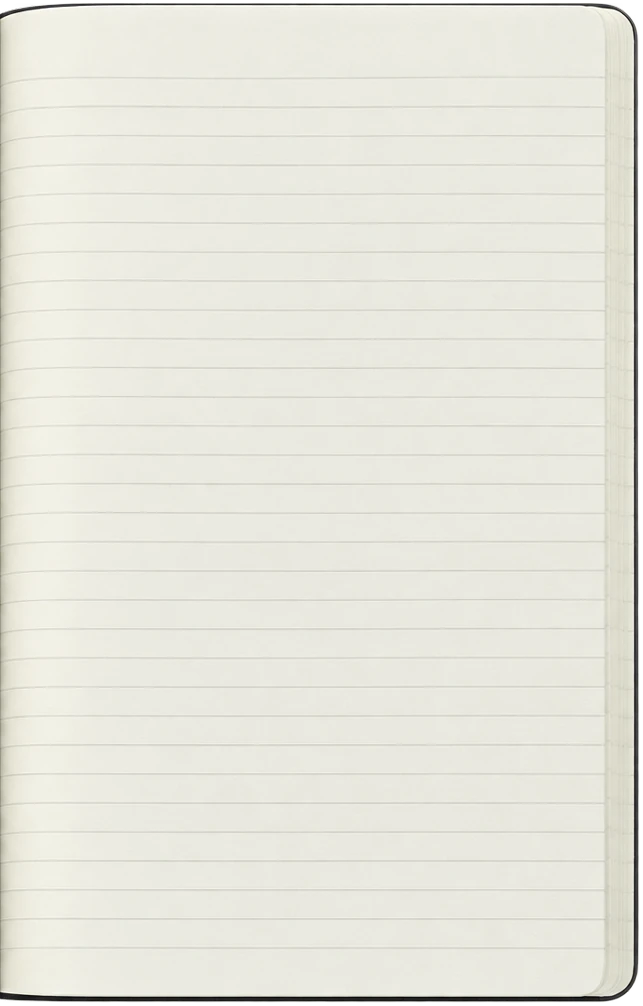
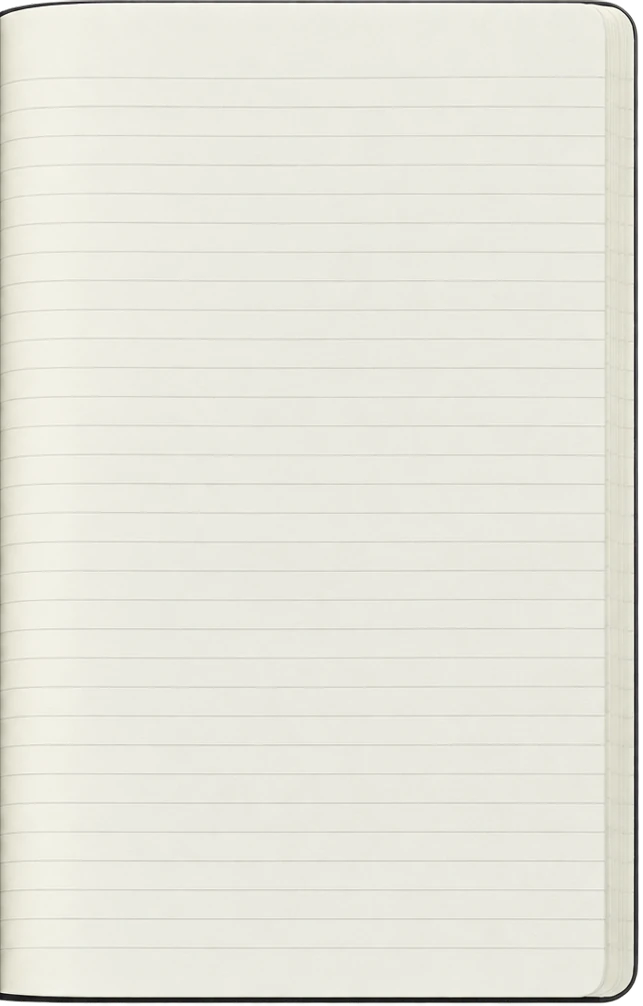
Familienrezepte updates

Changed region(s): [[0.0, 0.0, 0.9953, 0.0308], [0.0, 0.9861, 0.9642, 1.0]]

diff --git a/public/projects/familienrezepte/app/app.js b/public/projects/familienrezepte/app/app.js
@@ -17,6 +17,15 @@ $('imgEndR').src = A.endR; $('imgBack').src = A.back;
 for (const [id, img] of [['coverBackShade', A.endL], ['backInShade', A.endR], ['backOutShade', A.back]]) {   // shading only where the board is
   const m = $(id).style; m.webkitMaskImage = m.maskImage = `url(${img})`; m.webkitMaskSize = m.maskSize = '100% 100%';
 }
+// every notebook picture is fetched and decoded up front and kept, so the first turn or opening never waits for one
+const KEEP_IMG = Object.values(A).map(src => { const i = new Image(); i.src = src; if (i.decode) i.decode().catch(() => {}); return i; });
+const frames = n => new Promise(r => { const f = k => k ? requestAnimationFrame(() => f(k - 1)) : r(); f(n); });
+// before anything moves: the pictures in what is about to be shown are decoded, and the browser has painted it
+async function ready(nodes, cap = 400) {
+  const imgs = nodes.filter(Boolean).flatMap(n => [...n.querySelectorAll('img')]);
+  await Promise.race([Promise.all(imgs.map(i => (i.decode ? i.decode() : Promise.resolve()).catch(() => {}))), new Promise(r => setTimeout(r, cap))]);
+  await frames(2);
+}
 let D = null;                 // the book's content, once unlocked
 const ILLD = {};              // illustrations per recipe, as they arrive
 const reduce = matchMedia('(prefers-reduced-motion: reduce)');
@@ -303,6 +312,7 @@ function place(r, rects) {
   return out;
 }
 function fitOne(r, box, u) {
+  r._v = (r._v || 0) + 1;
   const keep = lang;
   for (const l of ['de', 'en']) {
     lang = l; const key = fkey(r, l); delete fit[key];
@@ -319,7 +329,7 @@ function fitAll() { const box = measureBox(), u = px(); for (const r of D.recipe
 
 // ---------- the order of pages ----------
 let pages = [];
-function buildPages() { pages = [tocPage(), ...D.recipes.map(r => recipePage(r)), insideBack]; }
+function buildPages() { layoutVer++; pages = [tocPage(), ...D.recipes.map(r => recipePage(r)), insideBack]; }
 // Which pages lie open at position n. Wide: a spread, the inside of the cover first. Tall: one right-hand page at a time
 const wide = () => !tall.matches;
 const rightIdx = n => wide() ? 2 * n : n;
@@ -331,11 +341,29 @@ const make = (i, side) => (pages[i] || blank)(side);
 // ---------- state ----------
 let pos = 0, open = false, busy = false, shutBack = false;
 const slotL = $('slotL'), slotR = $('slotR'), leaf = $('leaf'), cast = $('cast');
-function setSlot(slot, i, side) { slot.replaceChildren(); if (i >= 0 || side === 'r') slot.appendChild(make(i, side)); }
+// A page that is already showing is not built again (rebuilding it would flicker its pictures for a frame)
+let layoutVer = 0;
+const slotKey = (i, side) => `${i}|${side}|${lang}|${layoutVer}|${tall.matches}|${(D && D.recipes[i - 1] && D.recipes[i - 1]._v) || 0}`;
+function setSlot(slot, i, side) {
+  const key = slotKey(i, side); if (slot._key === key && slot.firstChild) return;
+  slot._key = key; slot.replaceChildren(); if (i >= 0 || side === 'r') slot.appendChild(make(i, side));
+}
+function clearSlot(slot) { slot._key = null; slot.replaceChildren(); }
+// When a page's illustrations arrive while it is open: the new page is built and its pictures decoded first,
+// then swapped in whole, so nothing blinks
+async function showSmooth() {
+  const jobs = [[slotR, rightIdx(pos), 'r'], [slotL, leftIdx(pos), 'l']].filter(([s, i, side]) => i >= 0 || side === 'r')
+    .map(([s, i, side]) => [s, slotKey(i, side), make(i, side)]).filter(([s, key]) => s._key !== key);
+  if (!jobs.length) return;
+  const imgs = jobs.flatMap(([, , node]) => [...node.querySelectorAll('img')]);
+  await Promise.race([Promise.all(imgs.map(im => (im.decode ? im.decode() : Promise.resolve()).catch(() => {}))), wait(500)]);
+  if (busy || !open) return;                          // something moved in the meantime; the next show() builds it
+  for (const [s, key, node] of jobs) { s._key = key; s.replaceChildren(node); }
+}
 function leftBase(n) { $('baseL').src = n === 0 ? A.endL : A.pageL; }   // inside cover first, ruled paper after that
 function show() {
   setSlot(slotR, rightIdx(pos), 'r');
-  if (leftIdx(pos) >= 0) setSlot(slotL, leftIdx(pos), 'l'); else slotL.replaceChildren();
+  if (leftIdx(pos) >= 0) setSlot(slotL, leftIdx(pos), 'l'); else clearSlot(slotL);
   leftBase(pos);
   updateControls();
 }
@@ -367,7 +395,7 @@ function setCast(tipX, lift, reach) {
 
 // ---------- turning a page ----------
 // A leaf is a sheet of paper cut into vertical strips, each its own plane in 3D, so the sheet can bend.
-const N = 36;
+const N = 40;
 const three = document.querySelector('.three');
 function buildLeaf(frontIdx, backIdx, pivot, n) {
   n = n || N; const sw = 608 / n;
@@ -375,7 +403,7 @@ function buildLeaf(frontIdx, backIdx, pivot, n) {
   const front = make(frontIdx, 'r'), back = make(backIdx, 'l');
   for (let i = 0; i < n; i++) {
     for (const [arr, src, off] of [[fr, front, -i * sw], [bk, back, -(n - 1 - i) * sw]]) {
-      const s = el('div', 'strip'); s.style.width = (sw * u + 0.6) + 'px';
+      const s = el('div', 'strip'); s.style.width = (sw * u + 1.2) + 'px';
       const c = src.cloneNode(true); c.style.left = (off * u) + 'px'; s.appendChild(c);
       const sh = el('div', 'shade'); s.appendChild(sh); s._sh = sh; pivot.appendChild(s); arr.push(s);
     }
@@ -383,14 +411,19 @@ function buildLeaf(frontIdx, backIdx, pivot, n) {
   return { fr, bk, u, n, pivot };
 }
 // The sheet bends: the free edge leads, the part by the fold follows, and it lands with a soft bulge that flattens
+// In perspective, the part of a page that lifts towards the eye grows taller than the book. A real page does not
+// change height, so each strip is shortened by exactly as much as its height in the air would enlarge it, about the
+// point the perspective is centred on: the turning page keeps the book's height all the way over.
+const PERSP = 6000, PERSP_Y = 0.46 * 1006 - 3;       // as in .three (perspective, perspective-origin), in book units
 function poseLeaf(L, p, noCast) {
-  const { fr, bk, u, n } = L; const w = 608 / n * u;
+  const { fr, bk, u, n } = L; const w = 608 / n * u, P = PERSP * u, OY = (PERSP_Y * u).toFixed(2);
   const tip = Math.PI * ease(clamp(p / 0.86, 0, 1)), sp = Math.PI * ease(clamp((p - 0.14) / 0.86, 0, 1));
   let x = 0, z = 0, zmax = 0; const th = [];
   for (let i = 0; i <= n; i++) th.push(sp + (tip - sp) * Math.pow(i / n, 1.35));
   for (let i = 0; i < n; i++) {
     const a = (th[i] + th[i + 1]) / 2, deg = (-a * 180 / Math.PI).toFixed(3);
-    const base = `translate3d(${x.toFixed(2)}px,0,${z.toFixed(2)}px) rotateY(${deg}deg)`;
+    const k = ((P - (z + w / 2 * Math.sin(a))) / P).toFixed(5);
+    const base = `translate3d(${x.toFixed(2)}px,0,${z.toFixed(2)}px) translateY(${OY}px) scaleY(${k}) translateY(-${OY}px) rotateY(${deg}deg)`;
     fr[i].style.transform = base;
     bk[i].style.transform = `${base} translateX(${(w / 2).toFixed(2)}px) rotateY(180deg) translateX(${(-w / 2).toFixed(2)}px)`;
     fr[i]._sh.style.background = `linear-gradient(to right, ${tint(lit(th[i], false))}, ${tint(lit(th[i + 1], false))})`;
@@ -408,11 +441,14 @@ async function turn(dir) {
   if (to < 0) return closeBook();
   if (to > lastPos()) { if (wide()) return closeBack(); return; }
   busy = true;
+  await pagesReady([rightIdx(to), leftIdx(to), rightIdx(Math.min(pos, to)), leftIdx(Math.max(pos, to))], 700);
   const n = dir > 0 ? pos : to;                       // the leaf between position n and n + 1
   if (reduce.matches) { pos = to; show(); busy = false; return; }
   const L = buildLeaf(rightIdx(n), leftIdx(n + 1), leaf);
   poseLeaf(L, dir > 0 ? 0 : 1);
-  if (dir > 0) setSlot(slotR, rightIdx(to), 'r'); else { if (leftIdx(to) >= 0) setSlot(slotL, leftIdx(to), 'l'); else slotL.replaceChildren(); leftBase(to); }
+  await ready([leaf]);                                // the leaf lies exactly over the page it lifts: nothing changes yet
+  if (dir > 0) setSlot(slotR, rightIdx(to), 'r'); else { if (leftIdx(to) >= 0) setSlot(slotL, leftIdx(to), 'l'); else clearSlot(slotL); leftBase(to); }
+  await ready([dir > 0 ? slotR : slotL], 250);
   await animate(1050, t => poseLeaf(L, dir > 0 ? t : 1 - t));
   pos = to; show(); leaf.replaceChildren(); cast.style.background = 'none'; busy = false;
 }
@@ -428,10 +464,12 @@ async function riffle(to) {
     const k = Math.round(j * (steps - 1) / (m - 1));
     ns.push(dir > 0 ? from + k : from - 1 - k);       // leaf between n and n + 1: forwards from the top of the right stack, backwards from the top of the left
   }
-  const Ls = ns.map(n => { const pv = el('div', 'pivot'); three.insertBefore(pv, leaf); return buildLeaf(rightIdx(n), leftIdx(n + 1), pv, 18); });
-  Ls.forEach(L => poseLeaf(L, dir > 0 ? 0 : 1, true));
+  const Ls = ns.map(n => { const pv = el('div', 'pivot'); three.insertBefore(pv, leaf); return buildLeaf(rightIdx(n), leftIdx(n + 1), pv, 24); });
+  Ls.forEach((L, j) => { poseLeaf(L, dir > 0 ? 0 : 1, true); L.pivot.style.zIndex = 100 - j; });   // the first to go lies on top
+  await ready(Ls.map(L => L.pivot), 600);
   // underneath: the destination, on the side the leaves are leaving
-  if (dir > 0) setSlot(slotR, rightIdx(to), 'r'); else { if (leftIdx(to) >= 0) setSlot(slotL, leftIdx(to), 'l'); else slotL.replaceChildren(); leftBase(to); }
+  if (dir > 0) setSlot(slotR, rightIdx(to), 'r'); else { if (leftIdx(to) >= 0) setSlot(slotL, leftIdx(to), 'l'); else clearSlot(slotL); leftBase(to); }
+  await ready([dir > 0 ? slotR : slotL], 250);
   const ONE = 560, GAP = steps > 4 ? 85 : 110, T = ONE + (m - 1) * GAP;
   await animate(T, t => {
     let top = null;
@@ -452,6 +490,7 @@ async function go(pageIdx) {
   const to = posOf(pageIdx);
   if (shutBack) return openBack(to);
   if (!open || to === pos) return;
+  busy = true; await pagesReady([rightIdx(to), leftIdx(to)], 1500); busy = false;
   await riffle(to);
 }
 
@@ -470,7 +509,7 @@ function poseCover(t) {
 async function openBook() {
   if (busy || open || shutBack) return; busy = true;
   if (document.activeElement === $('pw')) { $('pw').blur(); await wait(380); }
-  $('pass').classList.add('gone'); pos = 0; setSlot(slotR, rightIdx(0), 'r'); document.body.classList.remove('closed'); document.body.classList.add('opening');
+  $('pass').classList.add('gone'); pos = 0; setSlot(slotR, rightIdx(0), 'r'); await ready([slotR]); document.body.classList.remove('closed'); document.body.classList.add('opening');
   if (reduce.matches) { cover.hidden = true; $('spineHold').style.visibility = 'hidden'; document.body.classList.remove('lidded'); } else {
     coverFront.classList.add('off'); await wait(430);
     await animate(2100, t => poseCover(swing(t)));
@@ -480,9 +519,9 @@ async function openBook() {
 }
 async function closeBook() {
   if (busy || !open) return; busy = true; open = false; updateControls();
-  cover.hidden = false; $('baseL').hidden = true; slotL.replaceChildren(); document.body.classList.add('opening');
+  cover.hidden = false; $('baseL').hidden = true; clearSlot(slotL); document.body.classList.add('opening');
   if (!reduce.matches) { poseCover(1); await animate(1800, t => poseCover(1 - swing(t))); }
-  poseCover(0); cast.style.background = 'none'; slotR.replaceChildren(); document.body.classList.add('closed'); document.body.classList.remove('opening'); coverFront.classList.remove('off'); busy = false;
+  poseCover(0); cast.style.background = 'none'; clearSlot(slotR); document.body.classList.add('closed'); document.body.classList.remove('opening'); coverFront.classList.remove('off'); busy = false;
   updateControls();
 }
 
@@ -557,16 +596,24 @@ async function unlock(pw) {
 }
 // Illustrations arrive page by page, nearest to the open page first, and fill in when they land
 let illLoading = false;
+const illP = {};
+// one page's illustrations: fetched once; when they land the page is laid out again and, if open, swapped in
+function ensureIll(n) {
+  if (!D || !ILL.includes(n)) return Promise.resolve();
+  return illP[n] || (illP[n] = fetchPictures(`data/ill-${String(n).padStart(2, '0')}.bin`).then(d => {
+    ILLD[n] = d; const box = measureBox(); fitOne(D.recipes[n - 1], box, px()); box.remove();
+    if (visible(n) && !busy) return showSmooth();
+  }).catch(() => {}));
+}
+// before moving to a page: its illustrations are there (or a moment has passed), so it never lands without them
+const pagesReady = (idxs, cap) => Promise.race([Promise.all(idxs.map(ensureIll)), wait(cap)]);
 async function loadIllustrations() {
   if (illLoading) return; illLoading = true;
   const here = () => Math.max(1, rightIdx(pos));
   const todo = ILL.slice();
   while (todo.length) {
     todo.sort((a, b) => Math.abs(a - here()) - Math.abs(b - here()));
-    const n = todo.shift();
-    try { ILLD[n] = await fetchPictures(`data/ill-${String(n).padStart(2, '0')}.bin`); } catch (e) { continue; }
-    const box = measureBox(); fitOne(D.recipes[n - 1], box, px()); box.remove();
-    if (visible(n) && !busy) show();
+    await ensureIll(todo.shift());
   }
 }
 let unlocking = false, passDone = false;

diff --git a/public/projects/familienrezepte/app/index.html b/public/projects/familienrezepte/app/index.html
@@ -99,7 +99,7 @@ button { font: inherit; color: inherit; }
 .hand-in { display: inline-block; vertical-align: baseline; mix-blend-mode: multiply; opacity: 0.93; }
 .center { text-align: center; }
 /* Everything that lifts off the page lives here, so it is drawn in perspective */
-.three { z-index: 6; position: absolute; inset: 0; perspective: calc(var(--u) * 4600); perspective-origin: 50% 46%; pointer-events: none; }
+.three { z-index: 6; position: absolute; inset: 0; perspective: calc(var(--u) * 6000); perspective-origin: 50% 46%; pointer-events: none; }
 @media (max-aspect-ratio: 1/1), (max-width: 700px) { .three { perspective-origin: 75% 46%; } }
 .pivot { position: absolute; left: calc(640 * var(--u)); top: 0; width: 0; height: 100%; transform-style: preserve-3d; }
 .strip { position: absolute; top: calc(3 * var(--u)); left: 0; height: calc(994 * var(--u)); overflow: hidden; backface-visibility: hidden; -webkit-backface-visibility: hidden; transform-origin: 0 0; will-change: transform; }
@@ -231,9 +231,9 @@ body.closed #baseR, body.closed #slotR { visibility: hidden; }
 <footer class="app-foot"><span>© <span id="year">2026</span> Lena Preis and Florian Preis</span><nav aria-label="Links"><a href="/projects/familienrezepte/">About</a><a href="/">preis.works</a></nav></footer>
 <script>
 const CRYPT = {"salt": "4rOm0FHjzOXBd4EACUOaZQ==", "iter": 600000};     // how the password becomes a key (the salt is not secret)
-const V = {"assets/sheet-right.webp":"6170d17f80","assets/sheet-left.webp":"852faab739","assets/page-right.webp":"01082ec31f","assets/page-left.webp":"d42849cc7b","assets/endpaper-left.webp":"092fa38e75","assets/endpaper-right.webp":"0b52eeaa9b","assets/cover-front.webp":"7c9130065f","assets/cover-elastic.webp":"0c87351be9","assets/cover-label.webp":"2dc7b9cd39","assets/cover-back.webp":"8895dc518c","data/core.bin":"e2e4e96dd6","data/ill-01.bin":"33f9de67c0","data/ill-02.bin":"ad7234fbb9","data/ill-03.bin":"d9219b69a7","data/ill-04.bin":"9398265381","data/ill-05.bin":"2ebfc2c3d0","data/ill-06.bin":"a8557d3675","data/ill-07.bin":"4b0ae1abbc","data/ill-08.bin":"dba3c62dd5","data/ill-09.bin":"c3954eaf99","data/ill-10.bin":"5cf92c1873","data/ill-11.bin":"432ff967d2","data/ill-12.bin":"972a69cf4e","data/ill-13.bin":"e96197fb9f","data/ill-14.bin":"3fdbf712fc","data/ill-15.bin":"1340396d8a","data/ill-16.bin":"8c45623e20","data/ill-17.bin":"8f9f516d0d","data/ill-18.bin":"fd17784974","data/ill-19.bin":"d76385e607","data/ill-20.bin":"6fd68a7fba","data/ill-21.bin":"71dd61d690","data/ill-22.bin":"818bd797ac","data/ill-23.bin":"5cce92895d","data/ill-24.bin":"07d500741b","data/ill-25.bin":"a1f7a10af7","data/ill-26.bin":"a42fafe8cd","data/ill-27.bin":"20e4b29feb","data/ill-28.bin":"89caa187fc","data/ill-29.bin":"63ffe30af6","data/ill-30.bin":"624ece581b","data/ill-31.bin":"0c99398dfa","data/ill-32.bin":"c4fdd0da65","data/ill-33.bin":"9efdb345b9","app.js":"706a902cd4"};      // file versions, so an updated book is fetched fresh
+const V = {"assets/sheet-right.webp":"feecccfb38","assets/sheet-left.webp":"dd48276795","assets/page-right.webp":"255303c560","assets/page-left.webp":"8f9bfc1bf0","assets/endpaper-left.webp":"700e87f520","assets/endpaper-right.webp":"90025e4808","assets/cover-front.webp":"7c9130065f","assets/cover-elastic.webp":"0c87351be9","assets/cover-label.webp":"2dc7b9cd39","assets/cover-back.webp":"8895dc518c","data/core.bin":"e2e4e96dd6","data/ill-01.bin":"33f9de67c0","data/ill-02.bin":"ad7234fbb9","data/ill-03.bin":"d9219b69a7","data/ill-04.bin":"9398265381","data/ill-05.bin":"2ebfc2c3d0","data/ill-06.bin":"a8557d3675","data/ill-07.bin":"4b0ae1abbc","data/ill-08.bin":"dba3c62dd5","data/ill-09.bin":"c3954eaf99","data/ill-10.bin":"5cf92c1873","data/ill-11.bin":"432ff967d2","data/ill-12.bin":"972a69cf4e","data/ill-13.bin":"e96197fb9f","data/ill-14.bin":"3fdbf712fc","data/ill-15.bin":"1340396d8a","data/ill-16.bin":"8c45623e20","data/ill-17.bin":"8f9f516d0d","data/ill-18.bin":"fd17784974","data/ill-19.bin":"d76385e607","data/ill-20.bin":"6fd68a7fba","data/ill-21.bin":"71dd61d690","data/ill-22.bin":"818bd797ac","data/ill-23.bin":"5cce92895d","data/ill-24.bin":"07d500741b","data/ill-25.bin":"a1f7a10af7","data/ill-26.bin":"a42fafe8cd","data/ill-27.bin":"20e4b29feb","data/ill-28.bin":"89caa187fc","data/ill-29.bin":"63ffe30af6","data/ill-30.bin":"624ece581b","data/ill-31.bin":"0c99398dfa","data/ill-32.bin":"c4fdd0da65","data/ill-33.bin":"9efdb345b9","app.js":"4bfe55b5b2"};      // file versions, so an updated book is fetched fresh
 const ILL = [1, 2, 3, 4, 5, 6, 7, 8, 9, 10, 11, 12, 13, 14, 15, 16, 17, 18, 19, 20, 21, 22, 23, 24, 25, 26, 27, 28, 29, 30, 31, 32, 33];         // pages that have illustrations
 </script>
-<script src="app.js?v=706a902cd4"></script>
+<script src="app.js?v=4bfe55b5b2"></script>
 </body>
 </html>

diff --git a/scripts/familienrezepte/index.template.html b/scripts/familienrezepte/index.template.html
@@ -99,7 +99,7 @@ button { font: inherit; color: inherit; }
 .hand-in { display: inline-block; vertical-align: baseline; mix-blend-mode: multiply; opacity: 0.93; }
 .center { text-align: center; }
 /* Everything that lifts off the page lives here, so it is drawn in perspective */
-.three { z-index: 6; position: absolute; inset: 0; perspective: calc(var(--u) * 4600); perspective-origin: 50% 46%; pointer-events: none; }
+.three { z-index: 6; position: absolute; inset: 0; perspective: calc(var(--u) * 6000); perspective-origin: 50% 46%; pointer-events: none; }
 @media (max-aspect-ratio: 1/1), (max-width: 700px) { .three { perspective-origin: 75% 46%; } }
 .pivot { position: absolute; left: calc(640 * var(--u)); top: 0; width: 0; height: 100%; transform-style: preserve-3d; }
 .strip { position: absolute; top: calc(3 * var(--u)); left: 0; height: calc(994 * var(--u)); overflow: hidden; backface-visibility: hidden; -webkit-backface-visibility: hidden; transform-origin: 0 0; will-change: transform; }

diff --git a/scripts/familienrezepte/notebook.py b/scripts/familienrezepte/notebook.py
@@ -35,14 +35,18 @@ OLD = 77.5 + 29 * np.arange(K)
 OTOP, OBOT = 3.0, 1002.0                                                   # top of the board, foot of the board
 OGL, OGR = 640 - 60, 640 + 60                                              # gutter kept at its own size
 # new gutter: the darkest column near the middle
+# the foot of the paper in the new image: the last bright row above the board, away from the spine
+col = g[:, 880:920].mean(1); PAPER_END = float(max(y for y in range(int(lines[-1]), NY1) if col[y] > 200)) + 0.5
 mid = (NX0 + NX1) // 2; NSP = mid - 80 + int(np.argmin(g[500, mid - 80:mid + 80])) + 1
 print('new spine', NSP, 'book', NX0, NX1, NY0, NY1)
 
 # ---------- maps from the old frame to the new image ----------
 def ymap(yo, cut=None):
     yo = np.asarray(yo, np.float32); yn = np.empty_like(yo)
-    top = yo < OLD[0]; yn[top] = NY0 + (yo[top] - OTOP) * (lines[0] - NY0) / (OLD[0] - OTOP)
-    bot = yo >= OLD[-1]; yn[bot] = lines[-1] + (yo[bot] - OLD[-1]) * (NY1 - lines[-1]) / (OBOT - OLD[-1])
+    # above the first line and below the last: the board's edge and the paper's edge land exactly where the
+    # pages expect them (paper from row 4 to 996, as in the photo), so a turning sheet (rows 3 to 997) matches
+    top = yo < OLD[0]; yn[top] = np.interp(yo[top], [0.5, 4.0, OLD[0]], [NY0, NY0 + 3.5, lines[0]])
+    bot = yo >= OLD[-1]; yn[bot] = np.interp(yo[bot], [OLD[-1], 996.0, 1003.5], [lines[-1], PAPER_END, NY1])
     mid_ = ~top & ~bot
     k = np.clip(np.floor((yo[mid_] - OLD[0]) / 29).astype(int), 0, K - 2); t = (yo[mid_] - OLD[k]) / 29
     past = (k > MID) | ((k == MID) & (t >= 0.5)) if cut is None else np.full(k.shape, cut)
